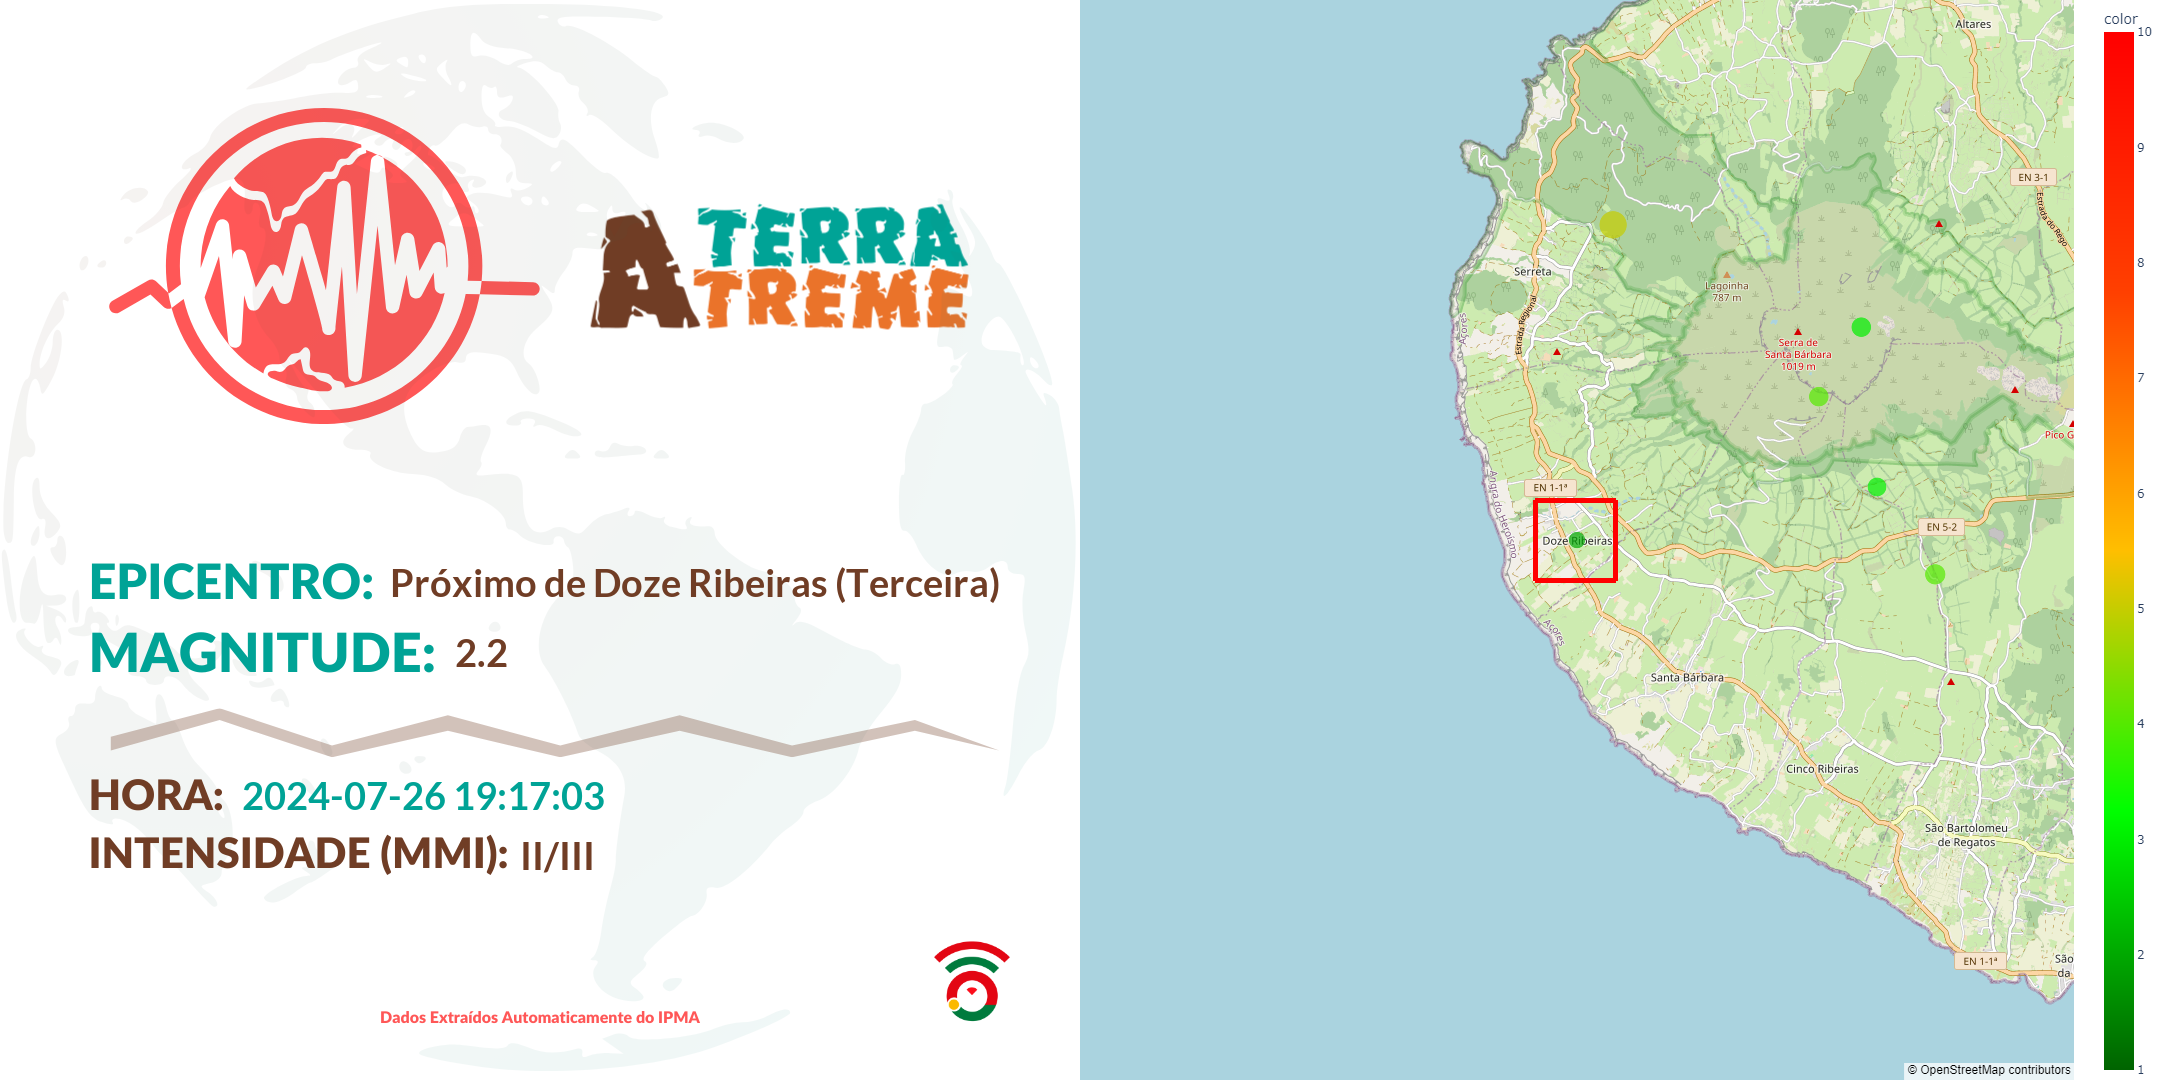
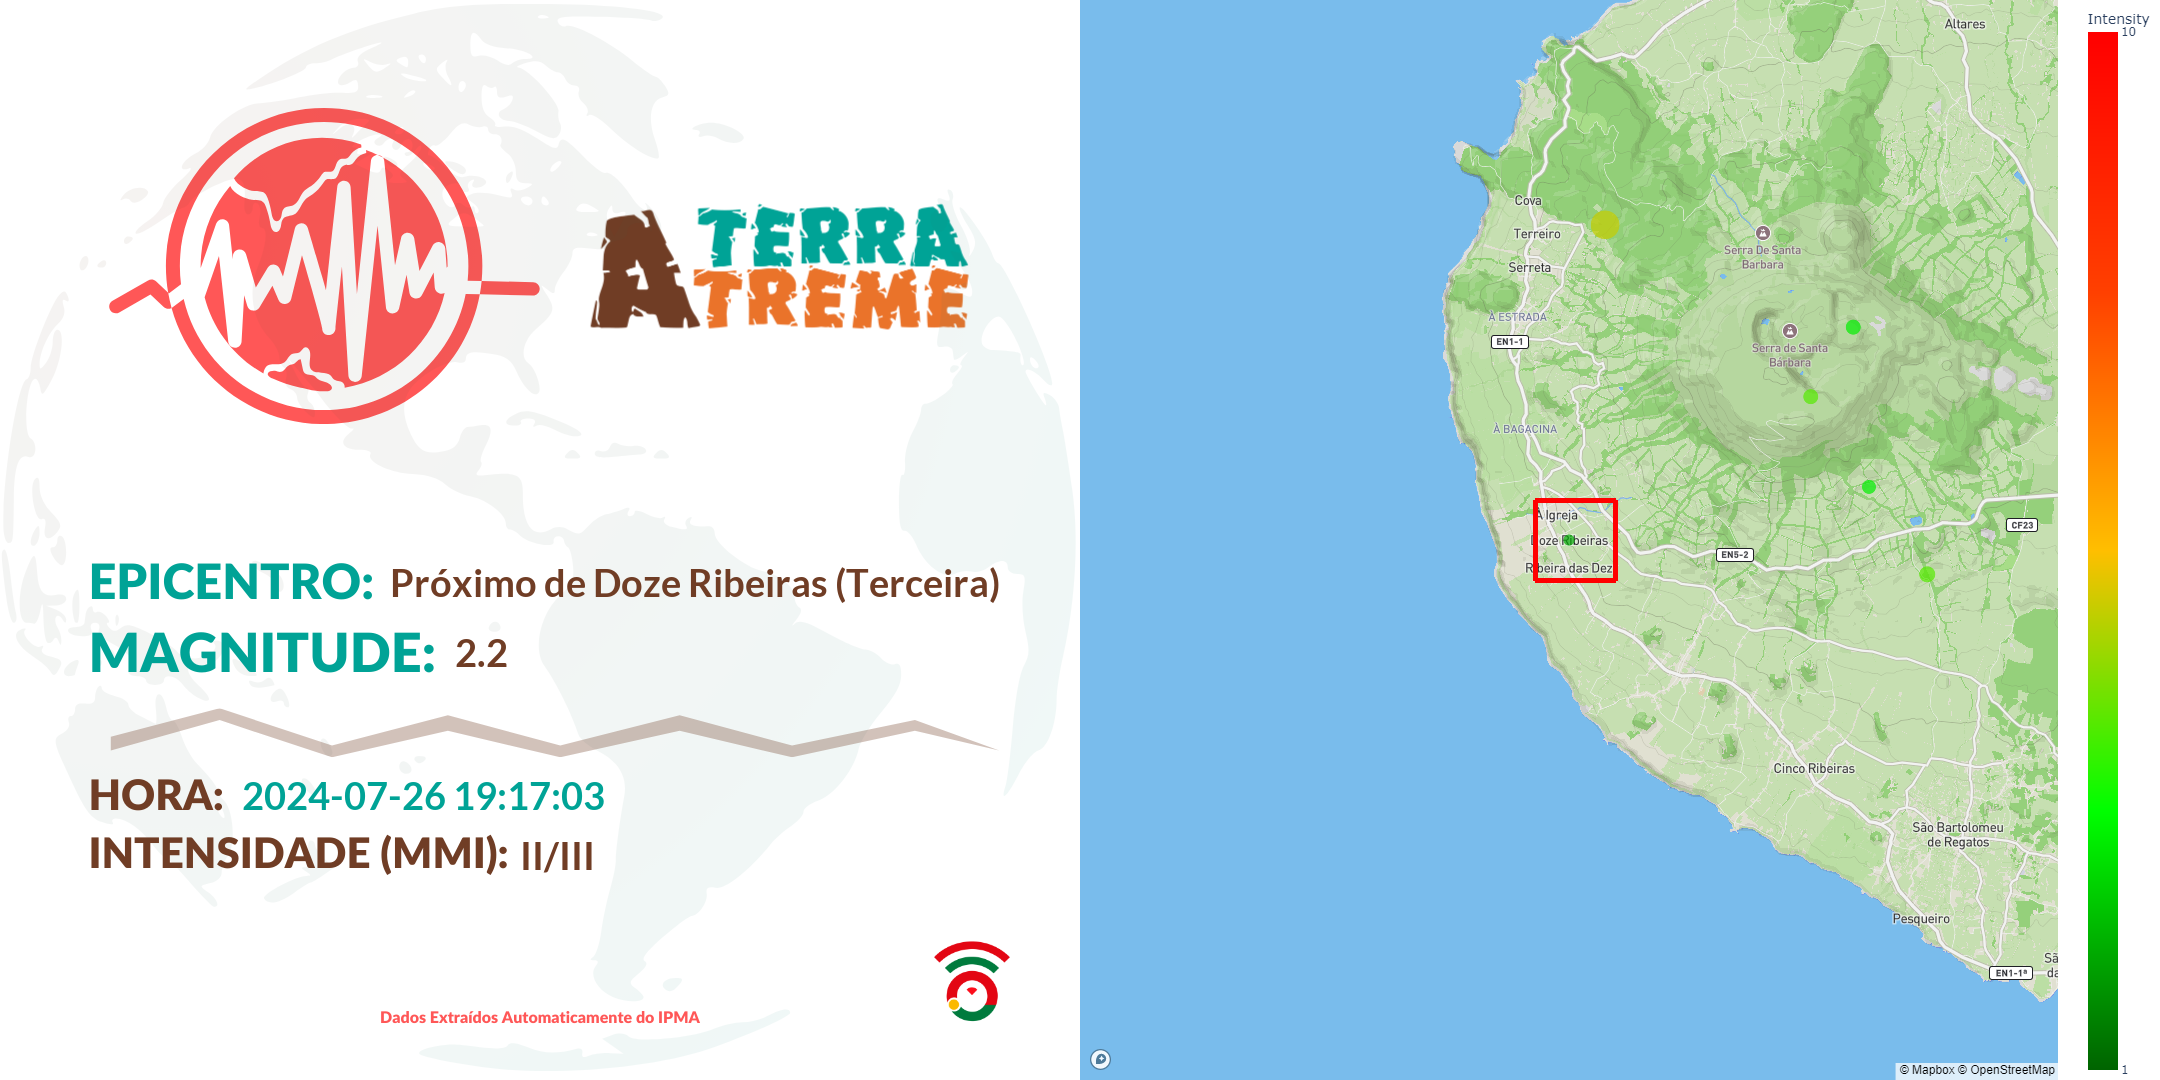
Creating the code to create a tokenized image and only when necessary

diff --git a/create_image.py b/create_image.py
@@ -2,6 +2,8 @@
 
 from PIL import Image, ImageFont, ImageDraw
 import pandas as pd
+import plotly.graph_objects as go
+import plotly.io as pio
 from sqlalchemy import create_engine, Column, String, Integer, Float, Text
 from sqlalchemy.ext.declarative import declarative_base
 from sqlalchemy.orm import sessionmaker
@@ -33,6 +35,100 @@ def update_data():
     session.close()
     return db_df
 
+
+def roman_to_int(roman_str):
+    roman_numerals = {
+        'I': 1, 'II': 2, 'III': 3, 'IV': 4, 'V': 5,
+        'VI': 6, 'VII': 7, 'VIII': 8, 'IX': 9, 'X': 10
+    }
+    value = roman_numerals.get(roman_str)
+    return value
+
+# Function to convert intensity ranges into an average value
+def parse_intensity(intensity_all):
+    result = []
+    # Detect if it's a range or a single value
+    for intensity in intensity_all:
+        if '/' in intensity:
+            parts = intensity.split('/')
+            values = [roman_to_int(part) for part in parts]
+            result.append(int(sum(values) / 2))  # Returns the average of the values
+        else:
+            result.append(int(roman_to_int(intensity)))  # Returns the integer value
+    return result
+
+def create_map_image(df):
+    """
+    Create a map image with earthquake data and save it as an image file.
+    """
+    try:
+        # Set Mapbox token
+        pio.kaleido.scope.mapbox_access_token = token_mapbox
+
+        # Define custom color scale
+        custom_colors = [
+            "#006400",  # Green
+            "#00FF00",  # Lime
+            "#ffbf00",  # Yellow
+            "#ff4000",  # Orange
+            "#ff0000",  # Red
+        ]
+
+        # Create Plotly map figure
+        image = go.Figure()
+        image.add_trace(go.Scattermapbox(
+            lat=df['latitude'],
+            lon=df['longitude'],
+            mode='markers',
+            marker=dict(
+                size=(df['scale'] ** 2.5) + 5,  # Marker size
+                color=parse_intensity(df['intensity']),  # Color based on intensity
+                colorscale=custom_colors,  # Custom colorscale
+                colorbar=dict(
+                    tickvals=[1, 10],  # Color range values
+                    ticktext=['1', '10'],  # Color range labels
+                    title='Intensity'  # Color bar title
+                ),
+                cmin=1,  # Minimum value for color scale
+                cmax=10,  # Maximum value for color scale
+                showscale=True  # Show color scale
+            )
+        ))
+
+        # Update layout for the map
+        image.update_layout(
+            mapbox=dict(
+                style="mapbox://styles/mapbox/outdoors-v12",  # Check if this is valid
+                center=dict(lat=df['latitude'].iloc[-1], lon=df['longitude'].iloc[-1]),  # Center the map
+                zoom=12  # Zoom level
+            ),
+            margin=dict(r=0, t=0, l=0, b=0)  # Remove margins
+        )
+
+        # Save the image
+        image.write_image("assets/MAPA_SISMO.png", width=1080, height=1080)
+
+        # Open the saved image to add a border
+        img = Image.open("assets/MAPA_SISMO.png")
+        draw = ImageDraw.Draw(img)
+
+        # Define border parameters
+        xy_1 = (455, 500)  # Top-left corner
+        xy_2 = (535, 580)  # Bottom-right corner
+        outline_color = 'red'
+        outline_width = 5
+
+        # Draw the border
+        draw.line([xy_1[0], xy_1[1], xy_2[0], xy_1[1]], fill=outline_color, width=outline_width)  # Top
+        draw.line([xy_2[0], xy_1[1], xy_2[0], xy_2[1]], fill=outline_color, width=outline_width)  # Right
+        draw.line([xy_2[0], xy_2[1], xy_1[0], xy_2[1]], fill=outline_color, width=outline_width)  # Bottom
+        draw.line([xy_1[0], xy_2[1], xy_1[0], xy_1[1]], fill=outline_color, width=outline_width)  # Left
+
+        # Save the final image
+        img.save("assets/MAPA_SISMO.png")
+
+    except Exception as e:
+        print(f"An error occurred while creating the map image: {e}")
 if __name__ == "__main__":
     # Load sensitive information
     load_dotenv('.env')
@@ -40,6 +136,7 @@ if __name__ == "__main__":
     user = os.getenv('user')
     password = os.getenv('password')
     database = os.getenv('database')
+    token_mapbox = os.getenv('token_mapbox')
 
     Base = declarative_base()
     class Earthquake(Base):
@@ -75,7 +172,10 @@ if __name__ == "__main__":
     engine = create_engine(f"mysql+pymysql://{user}:{password}@{host}/{database}?charset=utf8mb4")
     Base = declarative_base()
 
+    # Create map image with earthquake
+    create_map_image(update_data())
 
+    # Get the latest data of database
     latest_data = update_data().iloc[-1]
 
     # Load the image template
@@ -101,18 +201,16 @@ if __name__ == "__main__":
     intensity_text = latest_data['intensity']
     overlay_text(img, intensity_text, (520, 832), font, "#703D25")
 
-    # Save the modified image
-    img.save("assets/SISMO_TEMPLATE_MODIFIED.png")
-
+    # Create new white image
     img_final = Image.new("RGB", (2160, 1080), color="white")
 
-
-    img_path = "assets/SISMO_TEMPLATE_MODIFIED.png"
-    img_info = Image.open(img_path)
+    # Get the map image with earthquake
     img_path = "assets/MAPA_SISMO.png"
     img_map = Image.open(img_path)
 
-    img_final.paste(img_info, (0, 0))
+    # Place the two images on the white image
+    img_final.paste(img, (0, 0))
     img_final.paste(img_map, (1080, 0))
 
+    # Save the modified final image
     img_final.save("assets/SISMO_TWEET.png")

diff --git a/graph.py b/graph.py
@@ -209,6 +209,7 @@ def update_dropdown_and_map(n_intervals):
 
     # Initialize the figure
     fig = go.Figure()
+    image = go.Figure()
 
     # Add trace to the map
     fig.add_trace(go.Scattermapbox(
@@ -247,37 +248,6 @@ def update_dropdown_and_map(n_intervals):
         ),
         margin=dict(r=0, t=0, l=0, b=0)  # Graph margins
     )
-
-    image = px.scatter_mapbox(df,
-                            lat='latitude',
-                            lon='longitude',
-                            hover_name='title',
-                            hover_data=['intensity', 'location'],
-                            color=parse_intensity(df['intensity']),
-                            color_continuous_scale=custom_colors,
-                            range_color=[1, 10],
-                            size=(df['scale'] * df['scale']) * 1.5,
-                            zoom=12,
-                            center=dict(lat=df['latitude'].iloc[-1], lon=df['longitude'].iloc[-1]))
-    image.update_layout(mapbox_style="open-street-map")
-    image.update_layout(margin={"r": 0, "t": 0, "l": 0, "b": 0})
-
-    # Draw a border around the map
-    xy_1 = (455, 500)
-    xy_2 = (535, 580)
-
-    outline_color = 'red'
-    outline_width = 5
-
-    image.write_image("assets/MAPA_SISMO.png", width=1080, height=1080)
-    img = Image.open("assets/MAPA_SISMO.png")
-    draw = ImageDraw.Draw(img)
-    draw.line([xy_1[0], xy_1[1], xy_2[0], xy_1[1]], fill=outline_color, width=outline_width)  # Top
-    draw.line([xy_2[0], xy_1[1], xy_2[0], xy_2[1]], fill=outline_color, width=outline_width)  # Right
-    draw.line([xy_2[0], xy_2[1], xy_1[0], xy_2[1]], fill=outline_color, width=outline_width)  # Bottom
-    draw.line([xy_1[0], xy_2[1], xy_1[0], xy_1[1]], fill=outline_color, width=outline_width)  # Left
-    img.save("assets/MAPA_SISMO.png")
-
     return dropdown_options, initial_value, fig
 
 # Callback to update description and publication date
